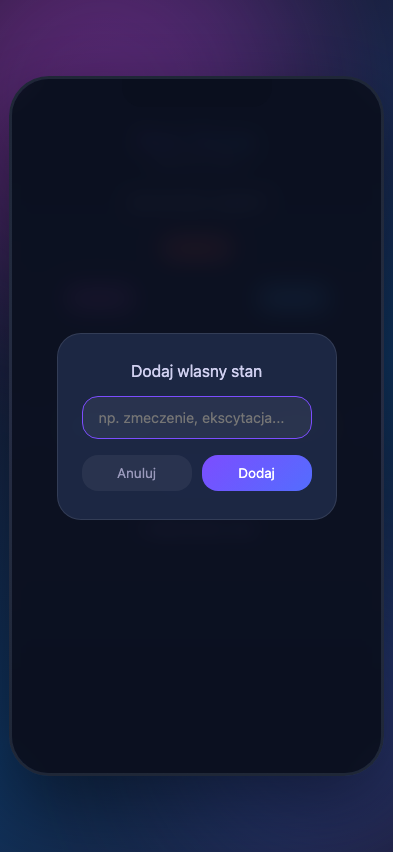
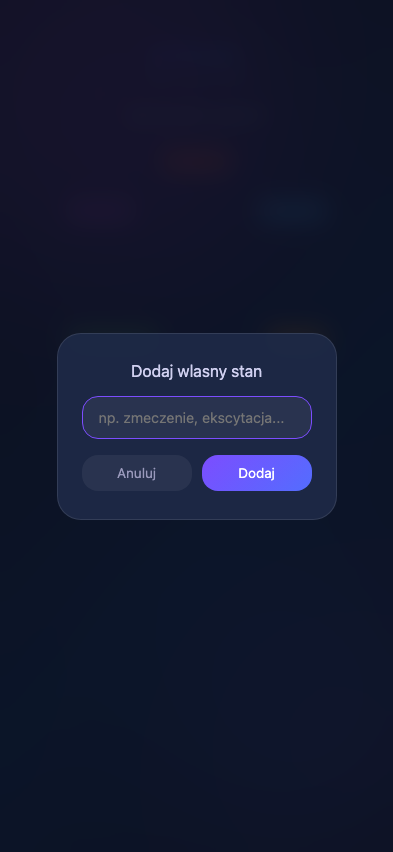
Remove phone frame, fullscreen layout, fix kONtakt name on screen 2

Changed region(s): [[0.0, 0.0, 1.0, 1.0]]

diff --git a/index.html b/index.html
@@ -11,11 +11,9 @@
     font-family: 'Segoe UI', system-ui, -apple-system, sans-serif;
     background: linear-gradient(135deg, #1a1a2e 0%, #16213e 30%, #0f3460 60%, #1a1a2e 100%);
     min-height: 100vh;
+    width: 100%;
     color: #e0e0f0;
-    display: flex;
-    align-items: center;
-    justify-content: center;
-    overflow: hidden;
+    overflow-x: hidden;
   }
 
   .bg-orb {
@@ -31,30 +29,17 @@
     66% { transform: translate(-20px, 20px) scale(0.95); }
   }
 
-  .phone {
+  .app {
     position: relative; z-index: 1;
-    width: 375px; height: 700px;
-    background: linear-gradient(180deg, #0d1527 0%, #131b33 50%, #0d1527 100%);
-    border-radius: 40px;
-    border: 3px solid rgba(255,255,255,0.08);
-    box-shadow: 0 30px 80px rgba(0,0,0,0.5), inset 0 0 0 1px rgba(255,255,255,0.04);
+    width: 100%;
+    min-height: 100vh;
     overflow: hidden;
-  }
-
-  .phone::before {
-    content: '';
-    position: absolute;
-    top: 0; left: 50%; transform: translateX(-50%);
-    width: 150px; height: 28px;
-    background: #0a0f1e;
-    border-radius: 0 0 20px 20px;
-    z-index: 100;
   }
 
   .screen {
     position: absolute;
     inset: 0;
-    padding: 48px 24px 24px;
+    padding: 40px 24px 24px;
     display: flex;
     flex-direction: column;
     transition: opacity 0.4s ease, transform 0.4s ease;
@@ -160,7 +145,7 @@
   .back-btn:hover { background: rgba(255,255,255,0.12); color: #d0d0f0; }
 
   .modal-overlay {
-    position: absolute; inset: 0;
+    position: fixed; inset: 0;
     background: rgba(10,15,30,0.85);
     backdrop-filter: blur(10px);
     display: flex; align-items: center; justify-content: center;
@@ -205,7 +190,7 @@
 <div class="bg-orb"></div>
 <div class="bg-orb"></div>
 
-<div class="phone">
+<div class="app">
 
   <div class="screen" id="screen1">
     <div class="app-header">
@@ -226,7 +211,7 @@
 
   <div class="screen hidden" id="screen2">
     <div class="app-header">
-      <div class="app-title">Pani Gosia</div>
+      <div class="app-title">kONtakt</div>
       <div class="app-subtitle">podsumowanie</div>
     </div>
     <p class="screen-question">Twoj tydzien</p>
@@ -247,7 +232,7 @@
     </div>
   </div>
 
-</div>
+</div> <!-- /app -->
 
 <script>
   var customEmotions = JSON.parse(localStorage.getItem('panigosia_custom') || '[]');